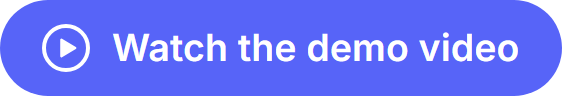
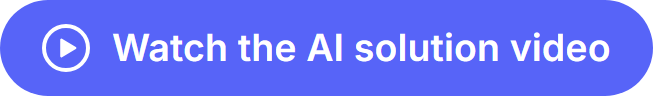
Name the standards the product is built under
The README header states that the solution is designed, built, validated
and operated in alignment with the Microsoft Responsible AI Standard and
the Azure Well-Architected Framework, with every principle and pillar
named. A Microsoft Responsible AI Standard section gives one row per
principle, with what is applied and the limitation accepted; the
Well-Architected section takes the framework's name and keeps its rows.

docs/RESPONSIBLE_AI.md opens with the common sentence, names no version
of the Standard and lists the goals that apply. The header and the repo
card call the product an AI solution.

Diagrams and boards are shown as the SVG exports, each with its title
under the drawing, and their PNG copies are removed. The captures are
the whole full-screen ones of the demo, never cropped: the browser's
address and the account are blurred, each sits in its frame with its
title, and the author's watermark is on the same place of each. The
portfolio link and its button point to the site's new address.
A homogeneity pass over README and docs: limitations are stated as
measured figures against their target, nothing refers to another
repository or to a file outside this one, long dashes are gone, and
bullets, links and tables follow one format.
A centred button under the introduction invites to watch the video
of the solution on the author's portfolio. It opens this project's page there
at the video, which starts by itself.
[…]

diff --git a/README.md b/README.md
@@ -9,7 +9,7 @@ quote in about 17 seconds, prices every line in code from the client's own catal
 approves it; office time per quote should drop from 33 to 65 minutes to 6 to 11, the estimate of the new process, not yet measured
 with real quotes.
 
-<p align="center"><a href="https://rodrigogomezdelmoral.es/en/projects/product-industrial-elevant#video"><img src="docs/images/author/demo-video.png" alt="Watch the demo video" height="48"></a></p>
+<p align="center"><a href="https://rodrigogomezdelmoral.es/en/projects/product-industrial-elevant#video"><img src="docs/images/author/demo-video.png" alt="Watch the AI solution video" height="48"></a></p>
 
 **Built to standard.** This AI solution is designed, built, validated and operated in alignment with the **Microsoft
 Responsible AI Standard** (Fairness, Reliability and Safety, Privacy and Security, Inclusiveness, Transparency,
